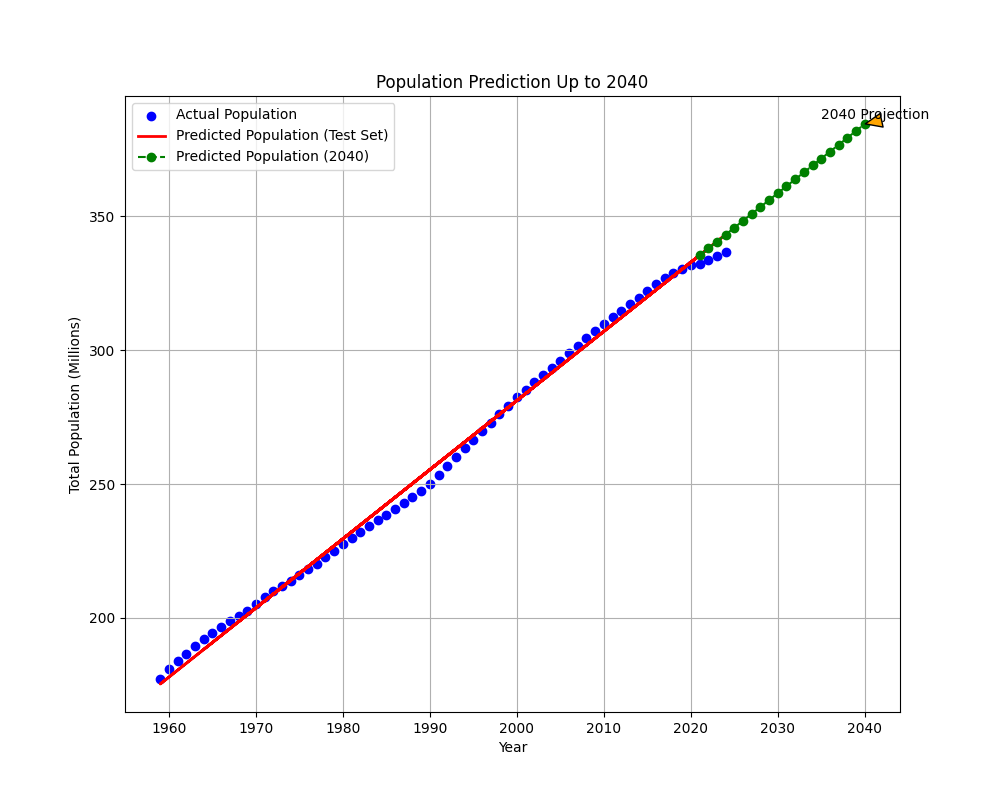
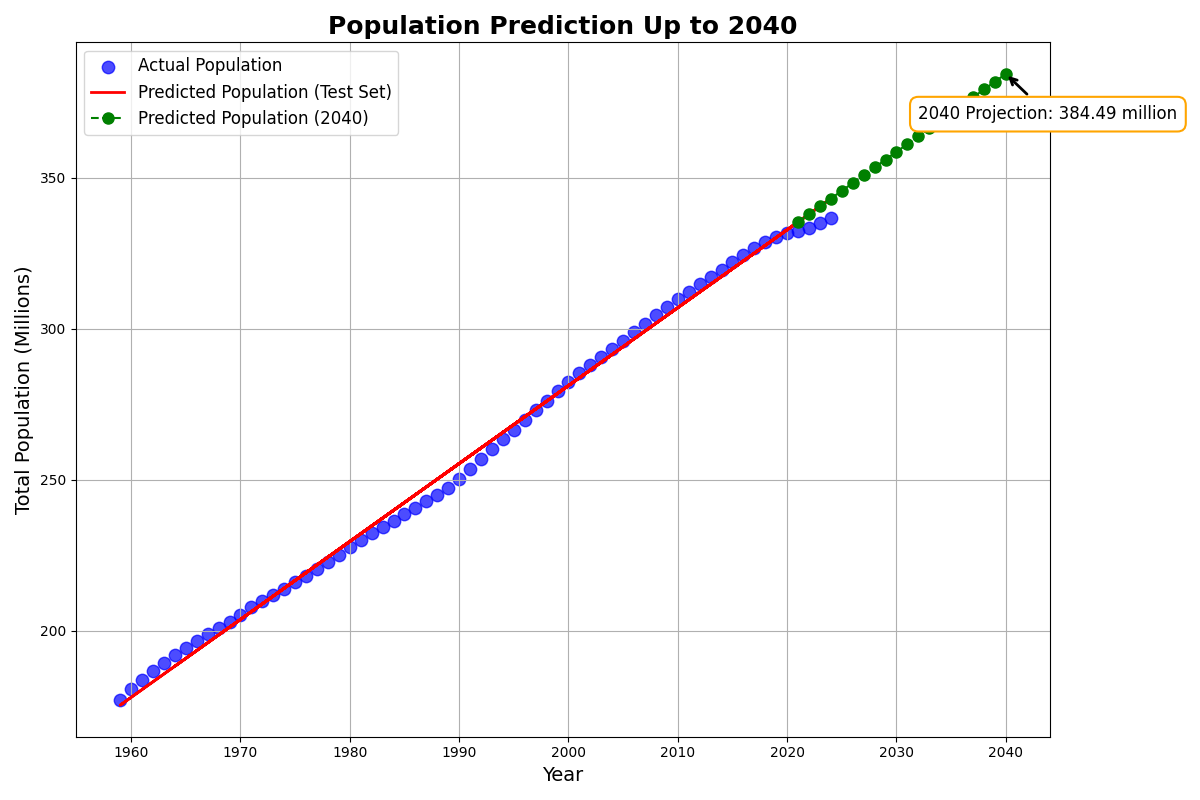
made some changes to the code and added a better annotation for the crude population projection model

diff --git a/population_us_projection.py b/population_us_projection.py
@@ -6,12 +6,13 @@ import numpy as np
 import matplotlib.pyplot as plt
 import seaborn as sns
 
+# Load the population data
 df_population = pd.read_csv("./fixtures/Formatted_Yearly_Population.csv")
 
-# first rows of the head to check the data
+# Display the first few rows to check the data
 print(df_population.head())
 
-
+# Convert 'total_population' to float
 df_population["total_population"] = df_population["total_population"].astype(float)
 
 # Split the data into train and test sets and Features
@@ -30,7 +31,7 @@ X_test_scaled = scaler.transform(X_test)
 linreg = LinearRegression()
 linreg.fit(X_train_scaled, y_train)
 
-
+# Predict on the test set
 y_pred = linreg.predict(X_test_scaled)
 
 # Prediction up to year 2040
@@ -38,42 +39,62 @@ future_years = np.array([[year] for year in range(2021, 2041)])
 future_years_scaled = scaler.transform(future_years)
 future_population_pred = linreg.predict(future_years_scaled)
 
-plt.figure(figsize=(10, 8))
+# Plot the actual data, test predictions, and future projections
+plt.figure(figsize=(12, 8))
+
+# Scatter plot for the actual data
 plt.scatter(
     df_population["year"],
     df_population["total_population"],
     color="blue",
     label="Actual Population",
+    s=80,  # Increase point size for better visibility
+    alpha=0.7
 )
 
+# Plot predicted population from the test set
 plt.plot(
     X_test, y_pred, color="red", linewidth=2, label="Predicted Population (Test Set)"
 )
 
+# Plot future population predictions up to 2040
 plt.plot(
     future_years,
     future_population_pred,
     "g--",
     label="Predicted Population (2040)",
     marker="o",
-)
-plt.annotate(
-    "2040 Projection",
-    xy=(2040, future_population_pred[-1]),
-    xytext=(2035, future_population_pred[-1] + 2),
-    arrowprops=dict(facecolor="orange", shrink=0.05, width=1, headwidth=10),
+    markersize=8
 )
 
-plt.title("Population Prediction Up to 2040")
-plt.xlabel("Year")
-plt.ylabel("Total Population (Millions)")
-plt.legend()
+# Annotate the 2040 projection, shifted down with an arrow pointing to the actual point
+plt.annotate(
+    f"2040 Projection: {future_population_pred[-1]:.2f} million",
+    xy=(2040, future_population_pred[-1]),  # Pointing to the actual data point
+    xytext=(2032, future_population_pred[-1] - 15),  # Shifted annotation downward
+    arrowprops=dict(facecolor="orange", arrowstyle="->", lw=2),
+    fontsize=12,
+    bbox=dict(boxstyle="round,pad=0.5", fc="white", ec="orange", lw=1.5)
+)
+
+# Title and labels
+plt.title("Population Prediction Up to 2040", fontsize=18, weight='bold')
+plt.xlabel("Year", fontsize=14)
+plt.ylabel("Total Population (Millions)", fontsize=14)
+plt.legend(fontsize=12)
 plt.grid(True)
+
+# Show the plot
+plt.tight_layout()
 plt.show()
+
+# Display the current and predicted population
 current_population = df_population["total_population"].iloc[-1]
 print(
     f"The current population (most recent data point) is: {current_population:.2f} million"
 )
+
+# Display the 2040 projection
 predicted_population_2040 = future_population_pred[-1]
 print(
     f"The predicted population for the year 2040 is: {predicted_population_2040:.2f} million"
